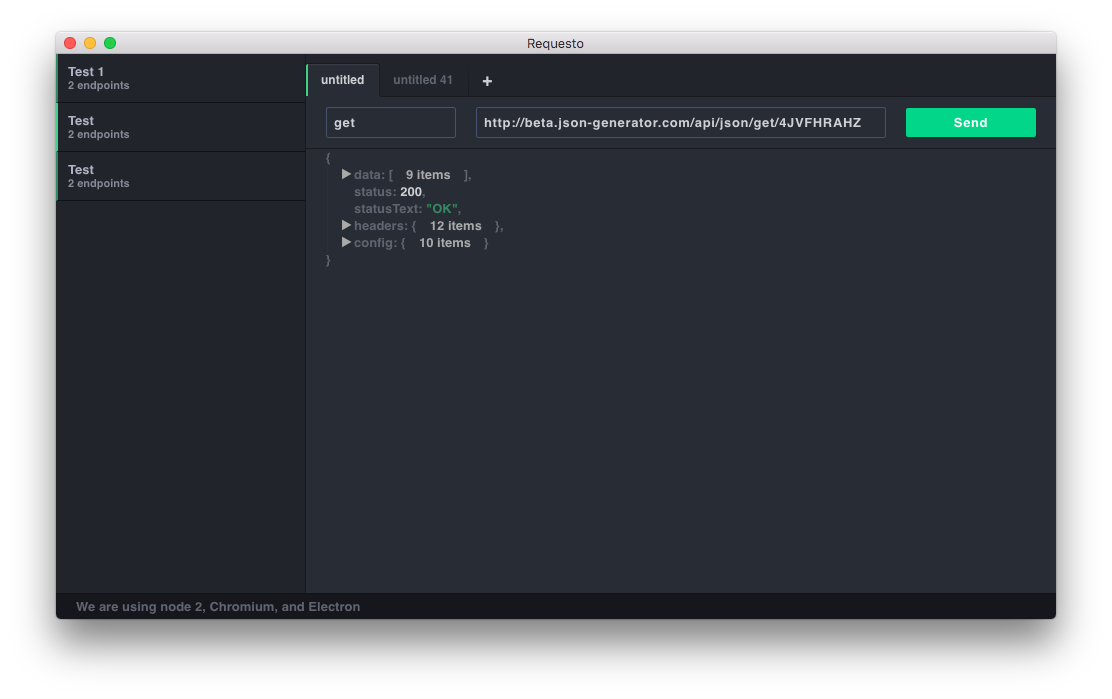
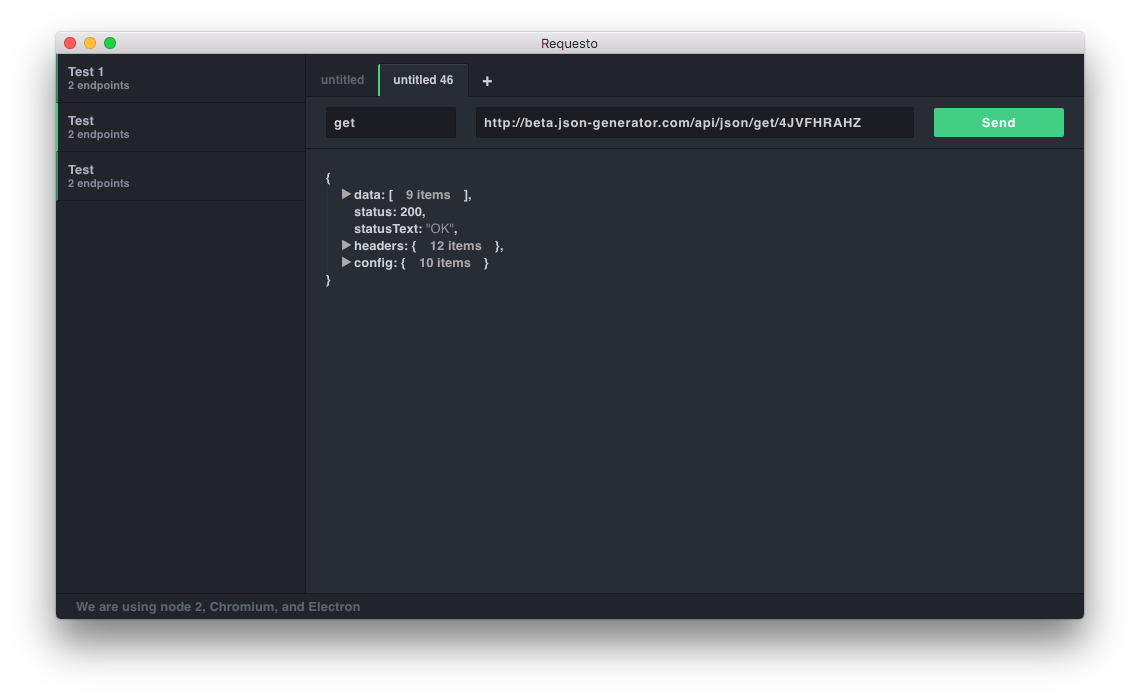
fix navigation and improve tab changing performance

diff --git a/app/assets/styles/components/_editors.scss b/app/assets/styles/components/_editors.scss
@@ -10,12 +10,16 @@
             position: absolute;
             top:0;
             left: 0;
-            display: flex;
+            display: none;
             align-items: stretch;
             flex-direction: column;
             width: 100%;
             height: 100%;
             background: color("background-light");
+            backface-visibility: hidden;
+            &.-show{
+                display: flex;
+            }
             .top {
                 display: flex;
                 width: 100%;
@@ -28,6 +32,7 @@
                 width: 100%;
                 padding: $grid-gutter/2 0;
                 padding: 10px;
+                //background: color("background-dark");
                 .columm {
                     padding: 0 10px;
                     &.action {
@@ -42,7 +47,7 @@
                 }
                 input {
                     background: none;
-                    border: 1px solid #475271;
+                    border: 1px solid #181a1f;
                     transition: all $animation-duration;
                     outline: none;
                     padding: 7px;
@@ -52,6 +57,7 @@
                     letter-spacing: 0.05em;
                     font-size: 13px;
                     color: color("text-light");
+                    background: color("background-input");
                     &:focus {
                         border-color: color("green-light");
                     }

diff --git a/app/assets/scripts/components/editors.js b/app/assets/scripts/components/editors.js
@@ -20,21 +20,24 @@ class Editors extends Component {
         this.renderEditors = this.renderEditors.bind(this);
     }
 
-    onClickSend(){
+    onClickSend(e){
 
-        const action = $(".bar .input-action").val();
-        const url = $(".bar .input-url").val();
+        const editor = $(e.currentTarget).closest(".editor");
 
-        $('#json-renderer').html("Carregando....");
+        const action =  editor.find(".bar .input-action").val();
+        const url =  editor.find(".bar .input-url").val();
+        const jsonViewer = editor.find(".json-renderer");
+
+        jsonViewer.html("Carregando....");
 
         Axios({
             method: action,
             url: url
         }).then(function(response) {
-            $('#json-renderer').jsonViewer(response);
+            jsonViewer.jsonViewer(response);
         })
         .catch(function(error) {
-            $('#json-renderer').jsonViewer(error);
+            jsonViewer.jsonViewer(error);
         });
     }
 

diff --git a/app/assets/styles/components/_viewer.scss b/app/assets/styles/components/_viewer.scss
@@ -7,16 +7,20 @@
 
     // display: none;
 
-    #json-renderer {
+    .json-renderer {
         font-size: 13px;
         font-weight: 600;
         line-height: 17px;
+        padding: $grid-gutter/2 0;
+        color: color("text-light");
+        white-space: normal;
         ol.json-array,
         ul.json-dict {
             border-color: #32343d;
         }
         .json-string {
-            color: color("green-dark");
+            color: color("text-light",65%);
+            font-weight: normal;
         }
         .json-literal {
             color: color("text-light");

diff --git a/app/assets/styles/components/_sidebar.scss b/app/assets/styles/components/_sidebar.scss
@@ -12,12 +12,12 @@
         color: #b1b4c4;
         width: 100%;
         .item {
-            border-bottom: 1px solid #111217;
-            border-left: 2px solid #338962;
+            border-bottom: 1px solid color("border");
+            border-left: 2px solid color("green-dark");
             padding: 10px;
             width: 100%;
             &.active {
-                border-left: 2px solid #43d08a;
+                border-left: 2px solid color("green-light");
             }
         }
         .name {

diff --git a/app/assets/scripts/components/tabs.js b/app/assets/scripts/components/tabs.js
@@ -25,8 +25,7 @@ class Tabs extends Component {
         var indexSelected = $(e.target).index();
         console.log(indexSelected);
         $(e.target).addClass("-active").siblings().removeClass("-active");
-        $(".component-editors .editor").hide()
-        $(".component-editors .editor").eq(indexSelected).show();
+        $(".component-editors .editor").removeClass("-show").eq(indexSelected).addClass("-show");
     }
 
     renderTabs(data,index){

diff --git a/app/assets/styles/components/_footer.scss b/app/assets/styles/components/_footer.scss
@@ -1,11 +1,10 @@
 .component-footer {
     display: flex;
     padding: 5px $grid-gutter/2;
-    background-color: #16171d;
+    background-color: color("background-dark");
     width: 100%;
     z-index: 99999;
-    // letter-spacing: 0.05em;
     font-size: 13px;
     font-weight: 600;
-    border-top: 1px solid #111217;
+    border-top: 1px solid color("border");
 }

diff --git a/app/assets/styles/_settings.scss b/app/assets/styles/_settings.scss
@@ -3,7 +3,8 @@ $colors:(
     "green-light":         #43ce86,
 	"background-light":    #282c34,
 	"background-dark":     #21252b,
+    "background-input":    #1b1d23,
     "text-light":          #ced0d6,
     "text-dark":           #5f6570,
-    "border":              #181a1f
+    "border":              #181a1f,
 );

diff --git a/app/assets/scripts/components/viewer.js b/app/assets/scripts/components/viewer.js
@@ -12,7 +12,7 @@ class Viewer extends Component {
     render() {
         return (
             <div className="component-viewer">
-                <pre id="json-renderer">
+                <pre className="json-renderer">
                     json!
                 </pre>
             </div>
